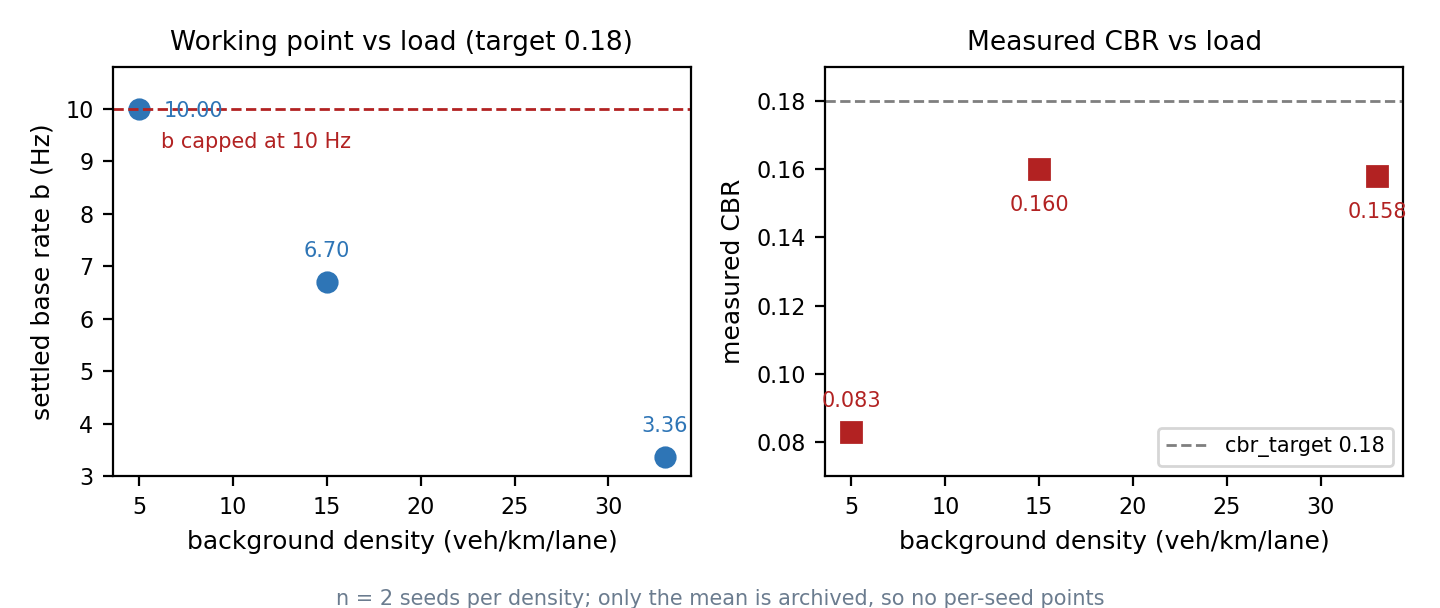
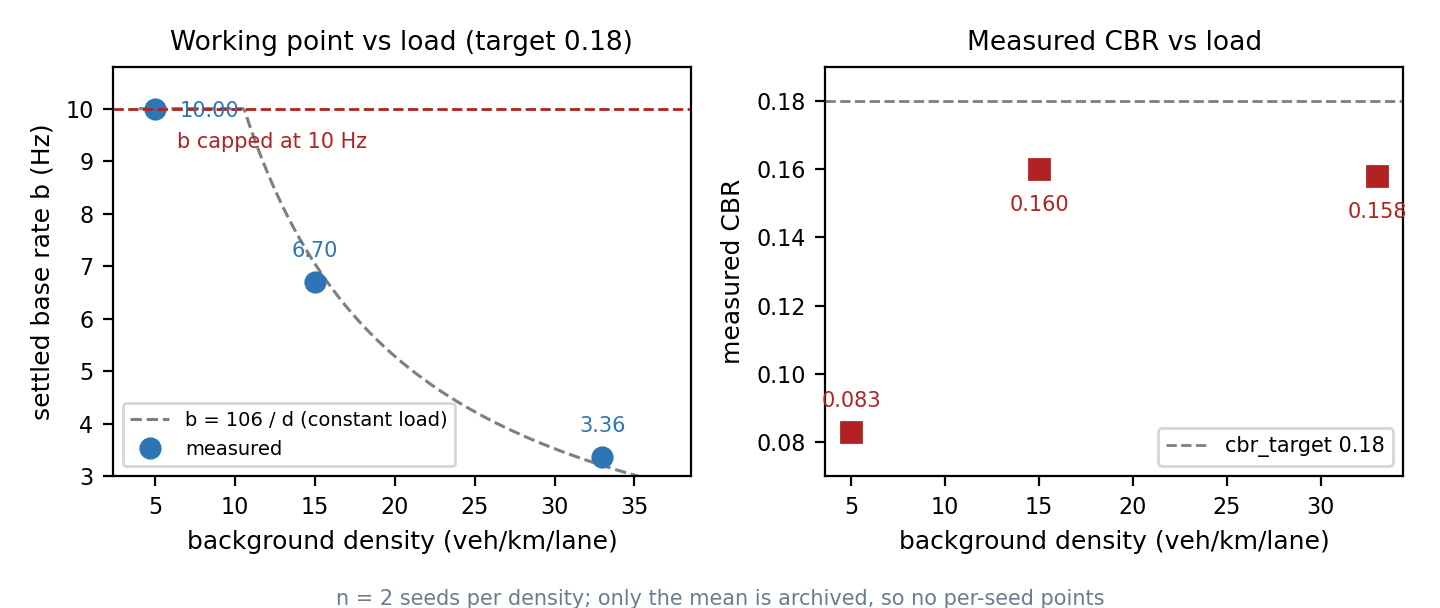
Add fitted curves where the data supports one
fig4 左加 b=106/d 的等负载双曲线（d=5 应需 21 Hz，被 10 Hz 上限截断，这就是它掉到 0.083 的原因）；fig1 左加 21 Hz/单位 target 的描述性拟合线；报告 5.2 补 b·d≈106 的反比结论。fig2 已是拟合线、fig5 已是理论曲线。

diff --git a/TABR_project/tools/make_figures.py b/TABR_project/tools/make_figures.py
@@ -59,6 +59,13 @@ def fig1_calibration():
     fig, axes = plt.subplots(1, 2, figsize=(8.0, 3.2), dpi=200)
 
     ax = axes[0]
+    tbar = sum(target) / len(target)
+    bbar = sum(b) / len(b)
+    slope = sum((x - tbar) * (y - bbar) for x, y in zip(target, b)) / sum((x - tbar) ** 2 for x in target)
+    icpt = bbar - slope * tbar
+    fx = [0.135, 0.205]
+    ax.plot(fx, [slope * x + icpt for x in fx], ls="--", lw=1.1, color=GREY,
+            label="fit, %.1f Hz per unit target" % slope)
     ax.plot(target, b, "o", color=BLUE, ms=7)
     for x, y in zip(target, b):
         ax.annotate("%.2f" % y, (x, y), xytext=(0, 8), textcoords="offset points",
@@ -67,6 +74,7 @@ def fig1_calibration():
     ax.set_ylabel("settled base rate b (Hz)")
     ax.set_title("E0 working point vs target (d=33)", fontsize=10)
     ax.set_ylim(2.25, 3.75)
+    ax.legend(fontsize=7.5, loc="upper left")
 
     ax = axes[1]
     ax.plot([0.13, 0.21], [0.13, 0.21], ls="--", lw=1.0, color=GREY,
@@ -154,8 +162,14 @@ def fig4_ladder():
     fig, axes = plt.subplots(1, 2, figsize=(7.2, 3.04), dpi=200)
 
     ax = axes[0]
-    ax.plot(dens, b, "o", color=BLUE, ms=7)
-    ax.axhline(10.0, color="#B22222", ls="--", lw=1.0)
+    cap = 10.0
+    # keeping CBR on target means holding the offered load d*b roughly constant
+    c_load = sum(d * v for d, v in zip(dens, b) if v < cap - 1e-9) / sum(1 for v in b if v < cap - 1e-9)
+    gx = [4.0 + i * 0.1 for i in range(330)]
+    ax.plot(gx, [min(cap, c_load / x) for x in gx], ls="--", lw=1.1, color=GREY,
+            label="b = %.0f / d (constant load)" % c_load)
+    ax.plot(dens, b, "o", color=BLUE, ms=7, label="measured")
+    ax.axhline(cap, color="#B22222", ls="--", lw=1.0)
     ax.annotate("b capped at 10 Hz", (5, 10), xytext=(8, -14),
                 textcoords="offset points", fontsize=7.5, color="#B22222")
     for x, y in zip(dens, b):
@@ -166,6 +180,7 @@ def fig4_ladder():
     ax.set_ylabel("settled base rate b (Hz)", fontsize=9)
     ax.set_title("Working point vs load (target 0.18)", fontsize=9.5)
     ax.set_ylim(3.0, 10.8)
+    ax.legend(fontsize=7, loc="lower left")
     ax.tick_params(labelsize=8)
 
     ax = axes[1]

diff --git a/TABR_project/docs/REPORT_20261124.md b/TABR_project/docs/REPORT_20261124.md
@@ -246,6 +246,8 @@ r(k)   = clip(b(k)·W(k), 1, 10) Hz                     最终速率
 
 控制器通过下调 b 把 CBR 稳到 target−0.02 附近；d=15 与 d=33 的 CBR 相同但所需 b 不同。d=5 时车队最高只能产生约 0.083 的 CBR，低于死区下沿，b 顶格 10 Hz。
 
+三个密度里 d=15 与 d=33 的 b·d 分别为 100.5 与 110.9（约 106），也就是**维持同一 CBR 所需的基础速率与密度近似成反比**（fig4 左图的 b = 106/d）。d=5 按此应需 21 Hz，超过 10 Hz 上限，只能顶格——这就是它掉到 0.083 的原因。
+
 ### 5.3 S1 主结果（n=3，事件起点口径）
 
 | 指标 | G0 | G1 | G2 | G3 |
